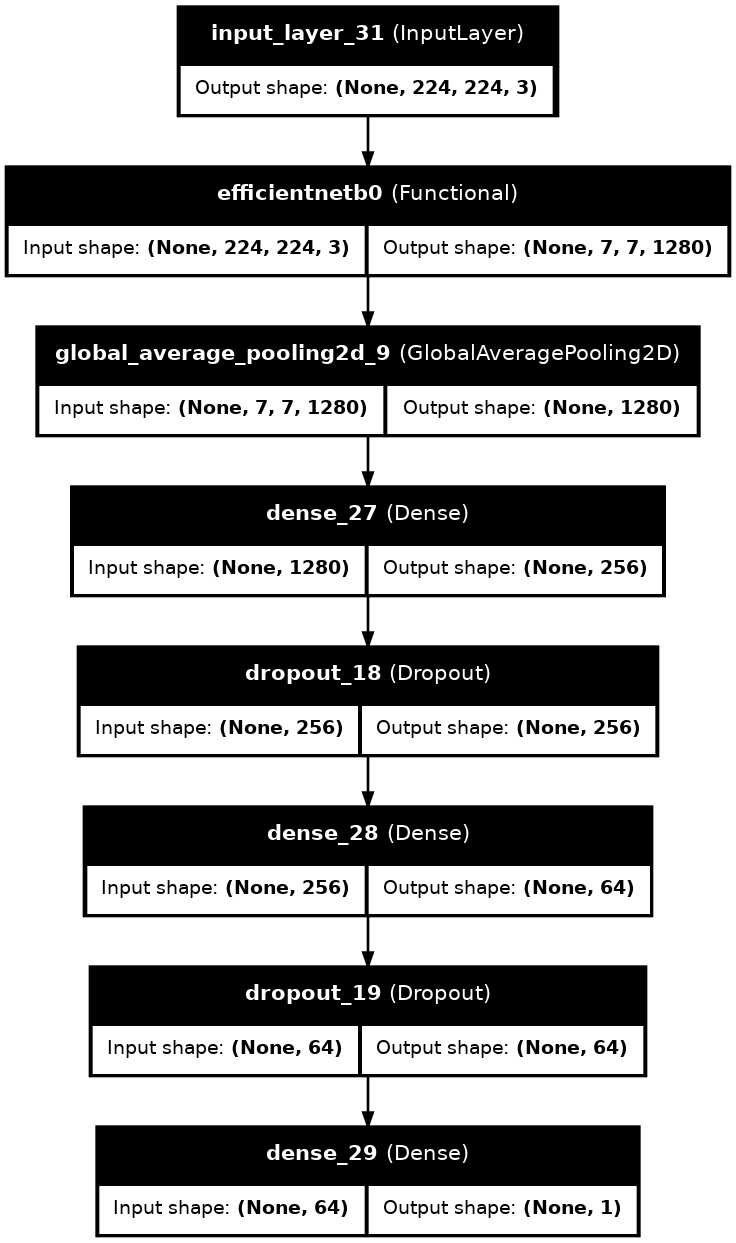
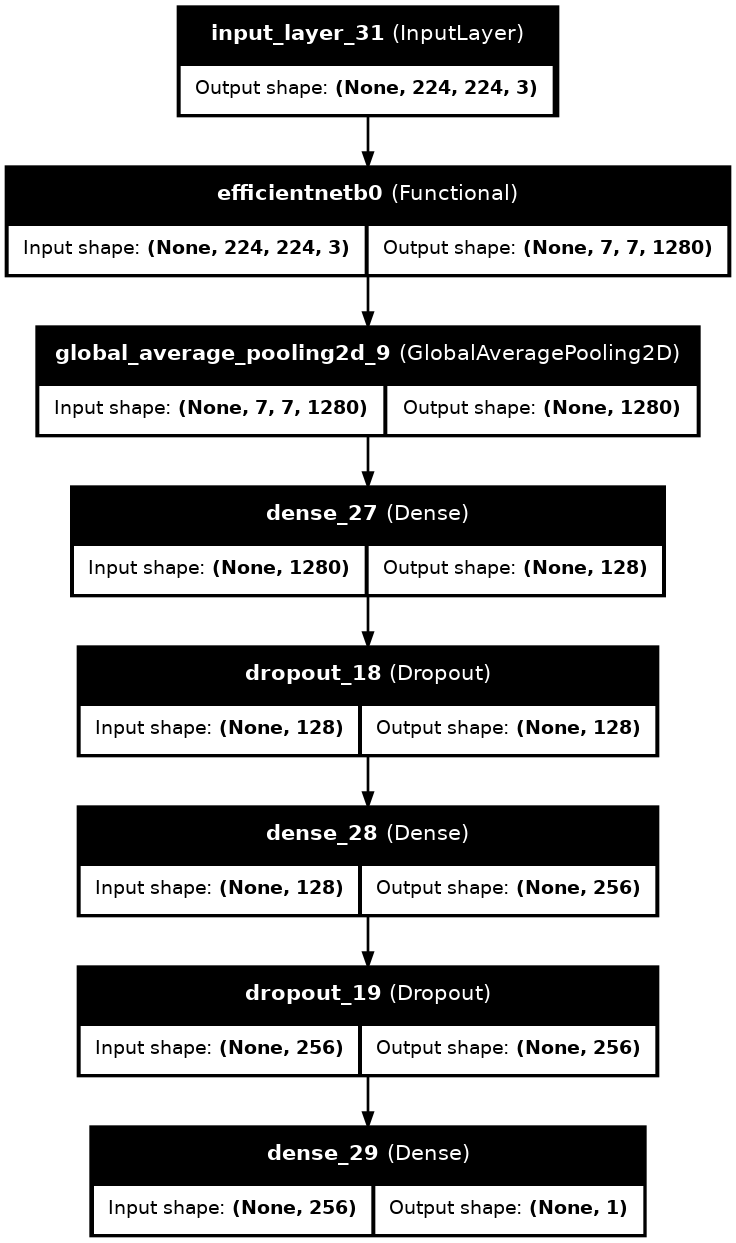
Add log files for BPNN hyperparameter search and evaluation results
- Created rq3_log_20260515_122411.txt with details of the BPNN hyperparameter search, including best parameters, Youden threshold search results, final training on the full train set, and test results.
- Created rq3_log_20260515_123234.txt with similar details as above, capturing the same metrics and results for a different run.

diff --git a/PROJECT_OVERVIEW.md b/PROJECT_OVERVIEW.md
@@ -188,7 +188,7 @@ threshold* = argmax(TPR − FPR)
 1. Record the average stopping epoch from 5-fold CV (`ConvNeXt-Tiny_avg_epochs.json`)
 2. Retrain on **full training set (267 images)** for exactly that many epochs
 3. No early stopping in the final retrain
-4. Evaluate with Youden threshold (0.6929)
+4. Evaluate with Youden threshold (0.7318)
 
 **Avg stopping epochs** (ConvNeXt-Tiny):
 - Phase 1: **50 epochs**

diff --git a/README.md b/README.md
@@ -141,7 +141,7 @@ $$J = \text{Sensitivity} + \text{Specificity} - 1 \qquad \text{threshold}^* = \a
 1. Record average stopping epoch from 5-fold CV
 2. Retrain on full training set (267 images) for that fixed number of epochs
 3. No early stopping in the final retrain
-4. Evaluate with Youden threshold (0.6929)
+4. Evaluate with Youden threshold (0.7318)
 
 **Average stopping epochs** (ConvNeXt-Tiny): Phase 1 = **50**, Phase 2 = **46**
 